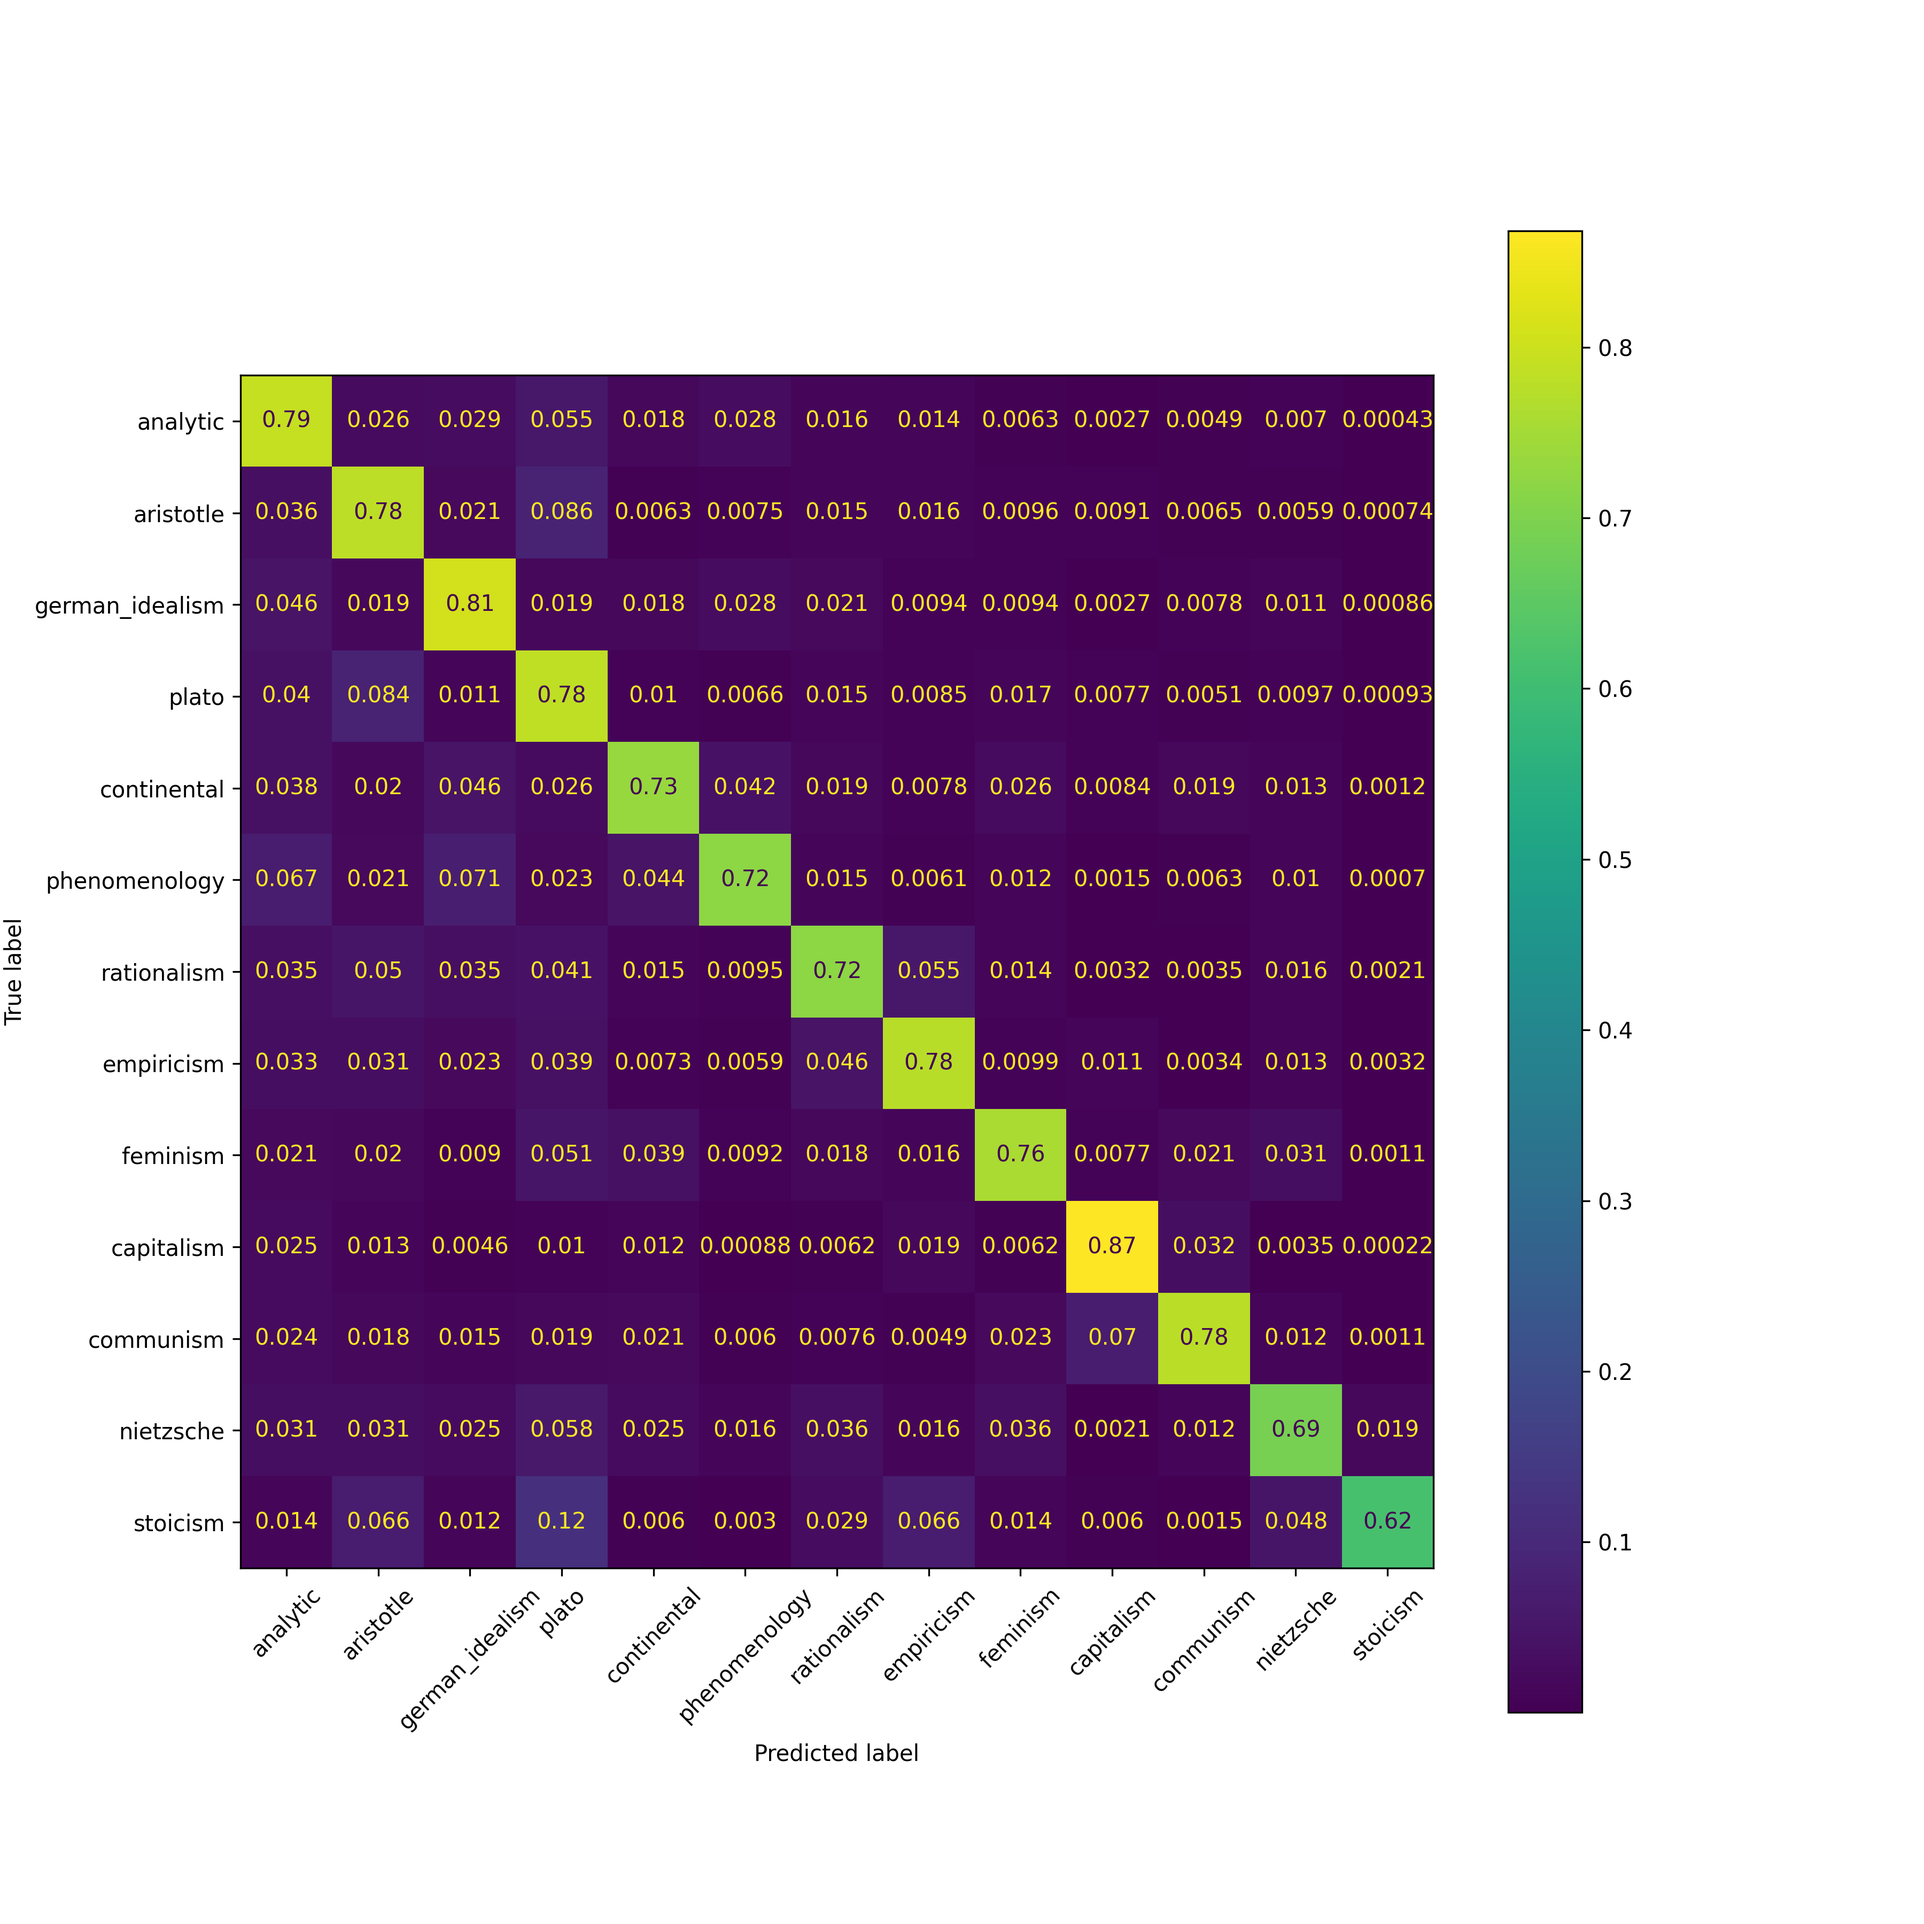
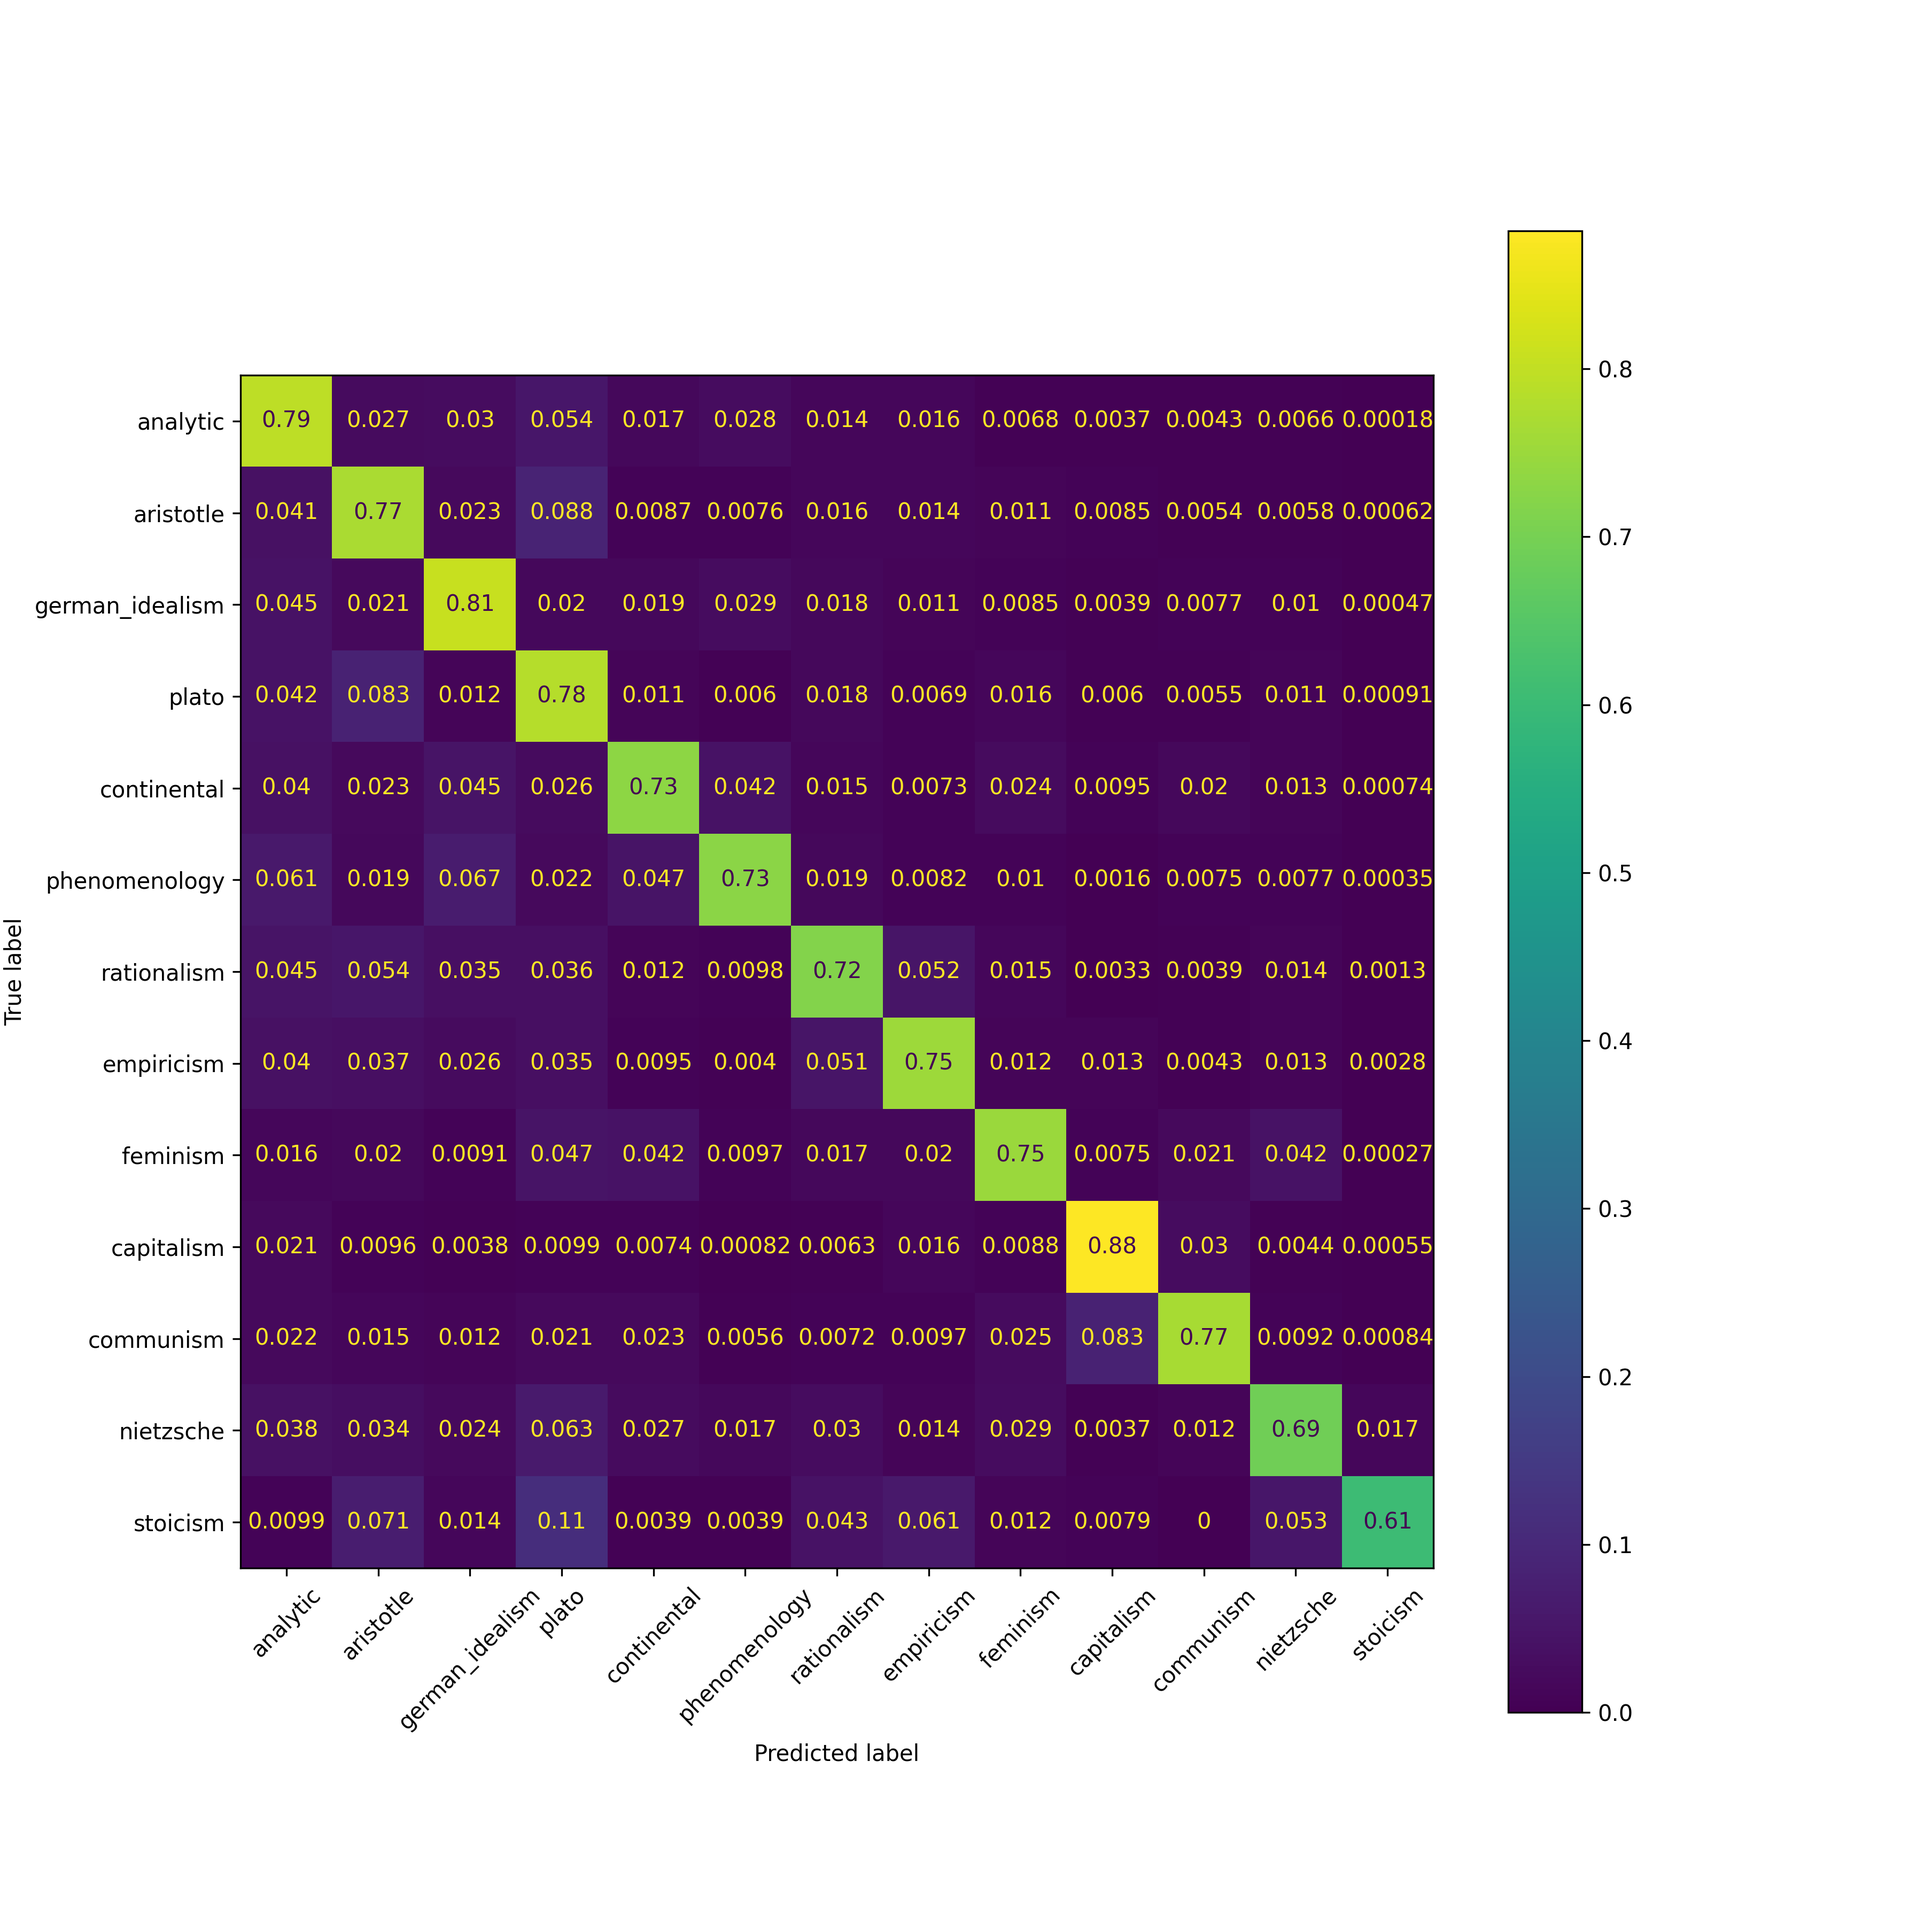
golden rule respected

diff --git a/NaiveBayes/naiveBaiesModel.py b/NaiveBayes/naiveBaiesModel.py
@@ -5,7 +5,8 @@ from nltk.corpus import stopwords
 import os
 import sys
 sys.path.insert(1, os.path.join(sys.path[0], '..'))
-from scoring import *
+from scoring import scorePhilosophy
+from utilities import *
 
 def getStopWords()->list:
     return stopwords.words('english')
@@ -32,25 +33,32 @@ if __name__ == '__main__':
     ######### Beging of the main code  #########
     ############################################
 
-    #x_train, x_test, y_train, y_test = splitData(addNegationsToData(getData()))
-    x_train, x_test, y_train, y_test = splitData(getData())
+    tr, vl, _ = getData()
+
+    x_train = tr['sentence_str']
+    y_train = tr['school']
+    x_val = vl['sentence_str']
+    y_val = vl['school']
     #vectorizer = CountVectorizer(analyzer='word', stop_words=getStopWords())
     vectorizer = CountVectorizer()
     x_train = vectorizer.fit_transform(x_train)
-    x_test = vectorizer.transform(x_test)
+    x_val = vectorizer.transform(x_val)
 
     # fitprior (to set whether to learn class prior probabilities or not)
     # alpha (smoothing parameter)
     model = MultinomialNB(alpha=0.06, fit_prior=True)
     model.fit(x_train, y_train)
-    pred = model.predict(x_test)
+    pred = model.predict(x_val)
 
     ############################################
     ########### End of the main code ###########
     ############################################
     
 
-    scorePhilosophy(pred, y_test, showConfusionMatrix=False)
+    scorePhilosophy(pred, y_val, showConfusionMatrix=False, saveName='bestNaive.png')
+    string = 'we should eat all the landlords'
+    pred = model.predict(vectorizer.transform([string]))
+    print(pred)
     exit()
     cm = confusion_matrix(y_test, pred, labels=SCHOOLS, normalize='true')
     disp = ConfusionMatrixDisplay(confusion_matrix=cm, display_labels=SCHOOLS)
